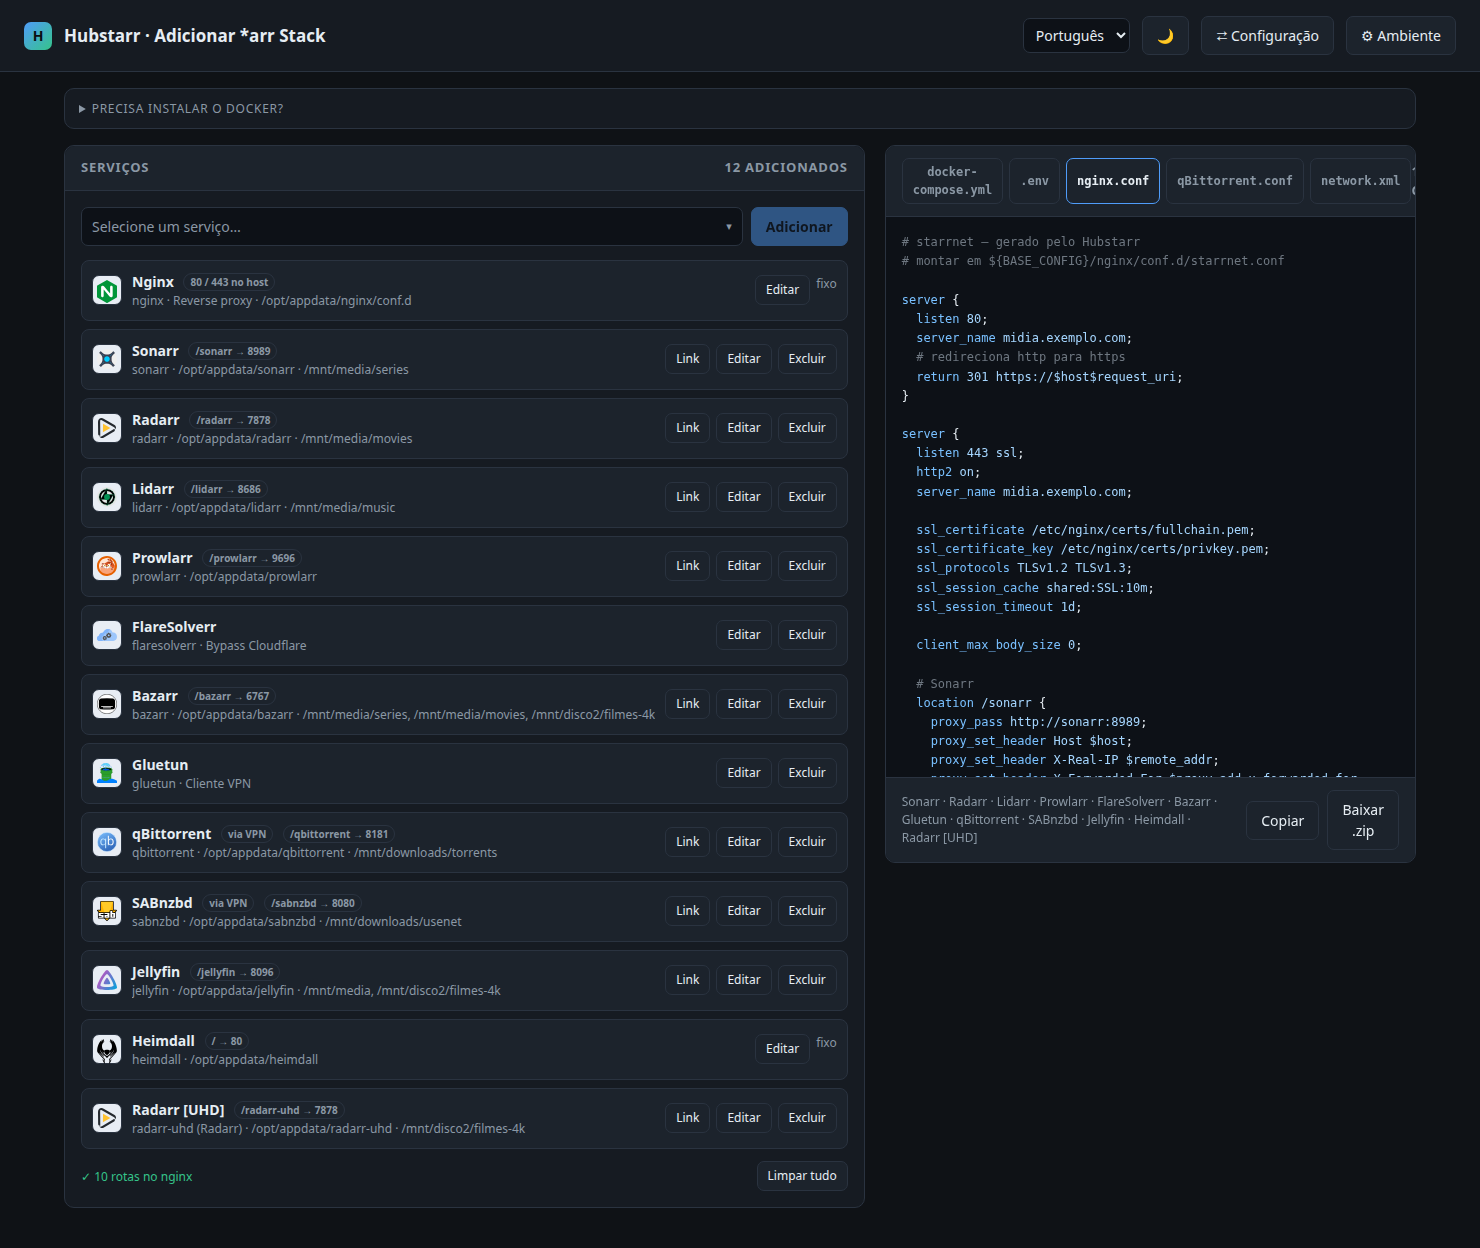
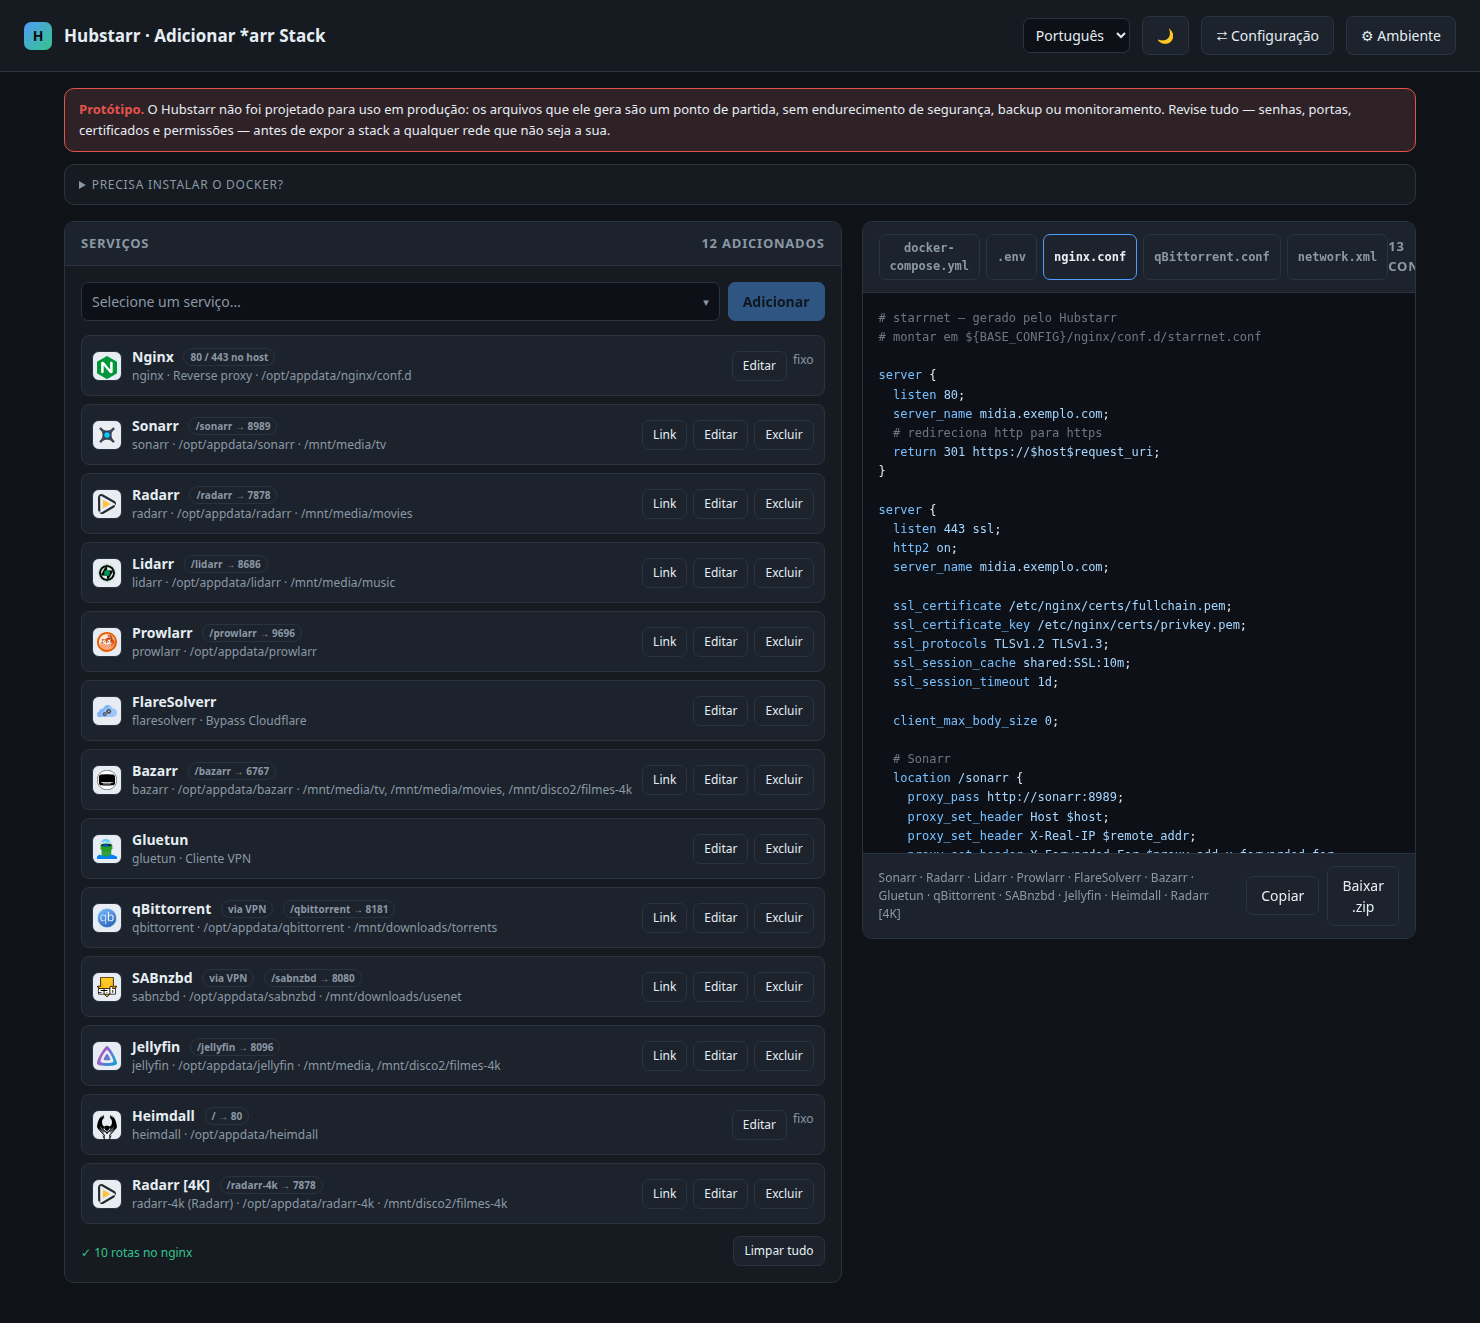
Avisa que o Hubstarr não foi projetado para produção
O aviso fica fixo no topo, acima do bloco do Docker: o que sai daqui é um
ponto de partida, e senhas, portas, certificados e permissões precisam de
revisão antes de a stack ver qualquer rede.

Claude-Session: https://claude.ai/code/session_011aUe9BhFV1EaUFCdsks5k6

diff --git a/hubstarr.html b/hubstarr.html
@@ -211,6 +211,12 @@
     background:var(--panel-2);border:1px solid var(--line);border-radius:8px;
     font-family:ui-monospace,SFMono-Regular,Menlo,monospace;font-size:12px;color:var(--txt)}
   .notice .noticeBody a{color:var(--accent)}
+  /* aviso fixo: protótipo, não produção */
+  .protoWarn{grid-column:1/-1;margin:-4px 0 -4px;padding:10px 14px;font-size:13px;
+    line-height:1.6;border-radius:10px;color:var(--txt);
+    background:color-mix(in srgb, var(--danger) 12%, var(--panel));
+    border:1px solid var(--danger)}
+  .protoWarn b{color:var(--danger)}
 </style>
 </head>
 <body>
@@ -226,6 +232,8 @@
 </header>
 
 <div class="wrap">
+  <!-- aviso fixo, antes de tudo: o que sai daqui é ponto de partida, não produção -->
+  <p class="protoWarn" data-i18n-html="proto.warn"></p>
   <!-- aviso acima dos dois painéis, na largura toda -->
   <details class="notice">
     <summary data-i18n="docker.h">Precisa instalar o Docker?</summary>
@@ -491,6 +499,7 @@ const I18N = {
   'app.lang':'Idioma',
   'app.env':'⚙ Ambiente',
   'app.cfg':'⇄ Configuração',
+  'proto.warn':'<b>Protótipo.</b> O Hubstarr não foi projetado para uso em produção: os arquivos que ele gera são um ponto de partida, sem endurecimento de segurança, backup ou monitoramento. Revise tudo — senhas, portas, certificados e permissões — antes de expor a stack a qualquer rede que não seja a sua.',
   'docker.h':'Precisa instalar o Docker?',
   'docker.body':'<p>O Hubstarr só precisa deste navegador; quem precisa do Docker com o plugin Compose são os arquivos que ele gera.</p>'+
     '<p><b>Linux</b> — o script oficial instala o Docker Engine e o Compose:</p>'+
@@ -771,6 +780,7 @@ const I18N = {
   'app.lang':'Language',
   'app.env':'⚙ Environment',
   'app.cfg':'⇄ Configuration',
+  'proto.warn':'<b>Prototype.</b> Hubstarr was not designed for production use: the files it generates are a starting point, with no security hardening, backups or monitoring. Review everything — passwords, ports, certificates and permissions — before exposing the stack to any network other than your own.',
   'docker.h':'Need to install Docker?',
   'docker.body':'<p>Hubstarr itself only needs this browser; it is the files it generates that need Docker with the Compose plugin.</p>'+
     '<p><b>Linux</b> — the official script installs Docker Engine and Compose:</p>'+
@@ -1049,6 +1059,7 @@ const I18N = {
   'app.lang':'Idioma',
   'app.env':'⚙ Entorno',
   'app.cfg':'⇄ Configuración',
+  'proto.warn':'<b>Prototipo.</b> Hubstarr no fue diseñado para uso en producción: los archivos que genera son un punto de partida, sin endurecimiento de seguridad, copias de seguridad ni monitorización. Revísalo todo — contraseñas, puertos, certificados y permisos — antes de exponer la stack a cualquier red que no sea la tuya.',
   'docker.h':'¿Necesitas instalar Docker?',
   'docker.body':'<p>Hubstarr solo necesita este navegador; los que necesitan Docker con el plugin Compose son los archivos que genera.</p>'+
     '<p><b>Linux</b> — el script oficial instala Docker Engine y Compose:</p>'+

diff --git a/CLAUDE.md b/CLAUDE.md
@@ -194,7 +194,7 @@ chromium-browser --headless=new --no-sandbox --disable-gpu --hide-scrollbars \
 ```
 
 `services.png` é 1480×760 e `screenshot.png` acompanha a altura do conteúdo
-(hoje 1195). O mesmo truque, com `--dump-dom` no lugar de `--screenshot`, é a
+(hoje 1323). O mesmo truque, com `--dump-dom` no lugar de `--screenshot`, é a
 maneira de testar mudanças de comportamento sem navegador interativo. Se o
 chromium travar sem escrever nada, passe um `--user-data-dir` próprio.
 
